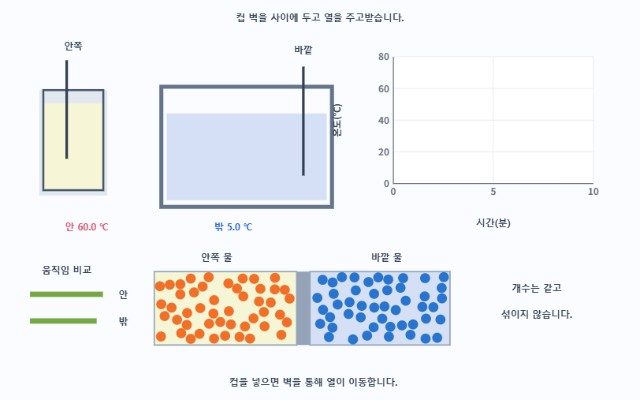
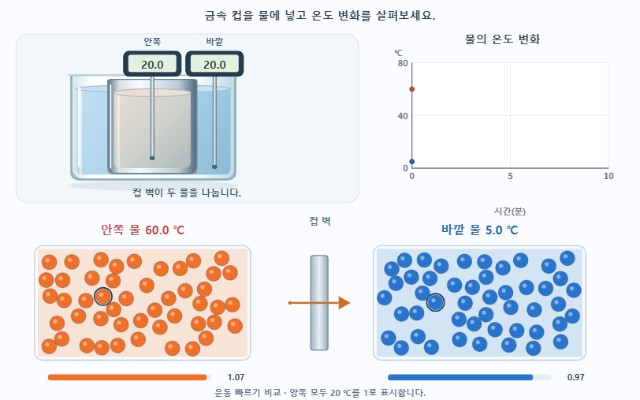
Make thermal equilibrium motion legible and redraw cup apparatus

diff --git a/labs/heat-equilibrium/index.html b/labs/heat-equilibrium/index.html
@@ -5,25 +5,116 @@ function temperatures(s,t){if(s.contact==='apart')return [s.inside,s.outside];co
 function sensors(s,t){const mean=s.contact==='apart'?null:(CI*s.inside+CO*s.outside)/(CI+CO);return [s.inside,s.outside].map((v,i)=>{if(mean==null)return v+(20-v)*Math.exp(-t/TAU);const a=v-mean;return mean+(20-mean)*Math.exp(-t/TAU)+a*(Math.exp(-LAMBDA*t)-Math.exp(-t/TAU))/(1-LAMBDA*TAU);});}
 const DENSITY=[[5,.99997],[20,.99821],[40,.99222],[60,.98320],[80,.97179]];
 function density(t){for(let i=1;i<DENSITY.length;i++)if(t<=DENSITY[i][0]){const [x,a]=DENSITY[i-1],[y,b]=DENSITY[i];return a+(b-a)*(t-x)/(y-x);}return DENSITY.at(-1)[1];}
-const width=t=>210*DENSITY[0][1]/density(t),rms=t=>25*Math.sqrt((t+273.15)/293.15);
+const MICRO_RATE=90,MICRO_DT=1/240;
+const width=t=>210*DENSITY[0][1]/density(t),rms=t=>MICRO_RATE*Math.sqrt((t+273.15)/293.15);
 const sim={t:0,acc:0,owner:null,mode:null,path:[]};let book,msg,lastFrame=0;const explored=new Set();
 const rows=i=>book.rows.filter(r=>r._mission===i);
 const particles=[[],[]];
-function initParticles(){for(let side=0;side<2;side++){particles[side]=Thermal.disks(48,210,110,8,101+side,25);}}
-function moveParticles(dt,ts){for(let side=0;side<2;side++){const ps=particles[side],w=width(ts[side]),target=rms(ts[side]),mean=Math.sqrt(ps.reduce((q,p)=>q+p.vx*p.vx+p.vy*p.vy,0)/ps.length),factor=target/mean;
+let microAcc=0,microTicks=0;
+function initParticles(){microAcc=0;microTicks=0;for(let side=0;side<2;side++){particles[side]=Thermal.disks(48,210,110,8,101+side,MICRO_RATE);for(const p of particles[side])p.trail=[];}}
+function moveParticles(dt,ts){microAcc+=Math.max(0,dt);while(microAcc>=MICRO_DT-1e-10){microAcc-=MICRO_DT;stepParticles(MICRO_DT,ts);microTicks++;if(microTicks%4===0)for(const ps of particles)for(const p of ps){p.trail.push([p.x,p.y]);if(p.trail.length>10)p.trail.shift();}}}
+function stepParticles(dt,ts){for(let side=0;side<2;side++){const ps=particles[side],w=width(ts[side]),target=rms(ts[side]),mean=Math.sqrt(ps.reduce((q,p)=>q+p.vx*p.vx+p.vy*p.vy,0)/ps.length),factor=target/mean;
  for(const p of ps){p.vx*=factor;p.vy*=factor;p.x+=p.vx*dt;p.y+=p.vy*dt;if(p.x<8){p.x=8;p.vx=Math.abs(p.vx);}if(p.x>w-8){p.x=w-8;p.vx=-Math.abs(p.vx);}if(p.y<8){p.y=8;p.vy=Math.abs(p.vy);}if(p.y>102){p.y=102;p.vy=-Math.abs(p.vy);}}
  for(let i=0;i<ps.length;i++)for(let j=i+1;j<ps.length;j++){const a=ps[i],b=ps[j],dx=b.x-a.x,dy=b.y-a.y,dist=Math.hypot(dx,dy);if(dist>0&&dist<15){const nx=dx/dist,ny=dy/dist,over=(15-dist)/2,dv=(b.vx-a.vx)*nx+(b.vy-a.vy)*ny;a.x-=over*nx;a.y-=over*ny;b.x+=over*nx;b.y+=over*ny;if(dv<0){a.vx+=dv*nx;a.vy+=dv*ny;b.vx-=dv*nx;b.vy-=dv*ny;}}}
  // Collision correction must not push a particle through the chamber wall.
  for(const p of ps){p.x=Math.max(8,Math.min(w-8,p.x));p.y=Math.max(8,Math.min(102,p.y));}
  }}
-function rewind(l){Object.assign(sim,{t:0,acc:0,owner:null,mode:null,path:[{time:0,inside:l.state.inside,outside:l.state.outside}]});}
+function rewind(l){Object.assign(sim,{t:0,acc:0,owner:null,mode:null,path:[{time:0,inside:l.state.inside,outside:l.state.outside}]});initParticles();moveParticles(MICRO_DT,[l.state.inside,l.state.outside]);}
 function configure(l,s){Object.assign(l.state,s);l.rewind();}
 function changed(v,l){if(l.mode==='learn'&&l.mi===0)explored.add(l.state.inside+':'+l.state.outside);l.rewind();}
 function advance(dt,l){sim.acc+=dt*RATE;const nextMinute=(Math.floor((sim.t+1e-6)/60)+1)*60;while(sim.acc>=DT&&sim.t<600-1e-8){sim.acc-=DT;sim.t=Math.min(600,sim.t+DT);if(Math.abs(sim.t-Math.round(sim.t/60)*60)<1e-7){sim.t=Math.round(sim.t/60)*60;const [inside,outside]=temperatures(l.state,sim.t);sim.path.push({time:sim.t/60,inside,outside});if(l.mode==='learn'&&sim.t>=nextMinute){sim.acc=0;l.setRunning(false);l.update();break;}}if(sim.t>=600){l.setRunning(false);l.update();}}}
-Lab.init({id:'heat-equilibrium',version:1,title:'열평형 입자 실험실',subject:'phys',unit:'열의 이동',grade:'중1',updated:'2026-09-27',board:{w:960,h:600},state:{inside:60,outside:5,contact:'apart'},animate:true,
- sceneNote:'입자 창은 크게 확대하고 느리게 보여 주는 설명 모형입니다. 물의 분자 구조 전체를 재현하지는 않습니다. 온도 변화 재생을 멈춰도 입자의 설명 움직임은 계속됩니다.',
+function drawEquilibrium(c,l){
+ const ts=temperatures(l.state,sim.t),ss=sensors(l.state,sim.t),d=l.draw,together=l.state.contact==='together',large=l.modelVisible&&l.state.focus==='particles';
+ const now=performance.now(),dt=Math.min(.05,Math.max(0,(now-lastFrame)/1000));lastFrame=now;
+ if(!matchMedia('(prefers-reduced-motion: reduce)').matches)moveParticles(dt,ts);
+ const text=(x,y,t,col='#334155',size=15,align='center')=>d.text(c,x,y,t,{size:l.fs(size),color:col,align});
+ const rr=(x,y,w,h,r,fill,stroke)=>{c.beginPath();c.roundRect(x,y,w,h,r);if(fill){c.fillStyle=fill;c.fill();}if(stroke){c.strokeStyle=stroke;c.lineWidth=1.5;c.stroke();}};
+ const ellipse=(x,y,rx,ry,fill,stroke)=>{c.beginPath();c.ellipse(x,y,rx,ry,0,0,Math.PI*2);if(fill){c.fillStyle=fill;c.fill();}if(stroke){c.strokeStyle=stroke;c.stroke();}};
+ const water=(x,y,w,h,T,metal=false)=>{
+  c.save();c.beginPath();c.roundRect(x,y,w,h,[0,0,10,10]);c.clip();
+  const g=c.createLinearGradient(x,y,x+w,y+h);g.addColorStop(0,'#e7f6fa');g.addColorStop(.55,'#c4e5ef');g.addColorStop(1,'#9fcad9');c.fillStyle=g;c.fillRect(x,y,w,h);
+  if(l.modelVisible){c.fillStyle=Thermal.tint(T);c.fillRect(x,y,w,h);}
+  c.fillStyle='rgba(255,255,255,.4)';c.fillRect(x+5,y,4,h);c.restore();
+  ellipse(x+w/2,y,w/2,6,'#eaf8fc','#a6c8d5');
+  if(l.modelVisible){ellipse(x+w/2,y,w/2,6,Thermal.tint(T));}
+ };
+ const probe=(x,top,bottom,value,label)=>{
+  const stem=c.createLinearGradient(x-3,0,x+3,0);stem.addColorStop(0,'#52687b');stem.addColorStop(.5,'#eef4f8');stem.addColorStop(1,'#52687b');
+  rr(x-3,top+25,6,bottom-top-25,3,stem);ellipse(x,bottom,4,3,'#4b6072');
+  rr(x-43,top,86,37,8,'#263c51','#142d41');rr(x-36,top+5,72,26,4,'#e5f1de');
+  text(x,top+26,value.toFixed(1),'#263c35',17);text(x,top-10,label,'#475569',13);
+ };
+ function apparatus(){
+  rr(24,51,514,253,18,'#f2f7fa','#e0e8ed');
+  // A section through the metal cup reveals the water while its wall remains solid.
+  const bx=together?114:271,by=119,bw=232,bh=143,cx=together?171:81,cw=115,cy=together?127:135,ch=125;
+  ellipse(bx+bw/2,278,bw*.55,8,'rgba(36,63,80,.08)');
+  const glass=c.createLinearGradient(bx,0,bx+bw,0);glass.addColorStop(0,'#dbe9ed');glass.addColorStop(.1,'#fff');glass.addColorStop(.8,'#f3f9fb');glass.addColorStop(1,'#c5dce5');
+  rr(bx-7,by-6,bw+14,bh+13,[3,3,18,18],glass,'#96b4c2');
+  // The outer water level rises as the metal cup displaces it. Both samples
+  // occupy approximately equal section areas; the cup itself keeps its size.
+  const level=together?14:87;water(bx,by+level,bw,bh-level,ts[1]);
+  // The cup is shown as an open section, never as transparent metal.
+  const metal=c.createLinearGradient(cx-8,0,cx+cw+8,0);metal.addColorStop(0,'#687d8d');metal.addColorStop(.12,'#d7e0e6');metal.addColorStop(.35,'#f8fbfd');metal.addColorStop(.8,'#bccbd5');metal.addColorStop(1,'#546c80');
+  rr(cx-9,cy-8,cw+18,ch+16,[4,4,12,12],metal,'#647b8d');
+  water(cx,cy+12,cw,ch-12,ts[0],true);
+  c.strokeStyle='#6c8393';c.lineWidth=2;c.beginPath();c.moveTo(cx-9,cy-7);c.lineTo(cx-9,cy+ch);c.quadraticCurveTo(cx-9,cy+ch+8,cx,cy+ch+8);c.lineTo(cx+cw,cy+ch+8);c.quadraticCurveTo(cx+cw+9,cy+ch+8,cx+cw+9,cy+ch);c.lineTo(cx+cw+9,cy-7);c.stroke();
+  c.strokeStyle='#f8fcff';c.lineWidth=2;c.beginPath();c.moveTo(cx-5,cy);c.lineTo(cx-5,cy+ch);c.stroke();
+  // An exterior lip, curved base and highlights distinguish the glass from the cup.
+  c.strokeStyle='#8eacba';c.lineWidth=3;c.beginPath();c.moveTo(bx-7,by-6);c.lineTo(bx-7,by+bh-4);c.quadraticCurveTo(bx-7,by+bh+7,bx+8,by+bh+7);c.lineTo(bx+bw-8,by+bh+7);c.quadraticCurveTo(bx+bw+7,by+bh+7,bx+bw+7,by+bh-4);c.lineTo(bx+bw+7,by-6);c.lineTo(bx+bw+17,by-11);c.stroke();
+  c.strokeStyle='#c4d8e0';c.lineWidth=2;c.beginPath();c.moveTo(bx-12,by-7);c.lineTo(bx+bw+6,by-7);c.stroke();
+  c.strokeStyle='rgba(255,255,255,.8)';c.lineWidth=4;c.beginPath();c.moveTo(bx+5,by+12);c.lineTo(bx+5,by+bh-12);c.stroke();
+  probe(cx+cw/2,77,cy+ch-15,ss[0],'안쪽');probe(bx+bw-24,77,by+bh-12,ss[1],'바깥');
+  text(280,294,together?'컵 벽이 두 물을 나눕니다.':'컵을 넣으면 열을 주고받습니다.','#475569',14);
+ }
+ function graph(){
+  text(754,65,'물의 온도 변화','#334155',17);
+  d.graph(c,{x:618,y:94,w:295,h:158,xMax:10,yMax:80,xLabel:'',yLabel:'',fontSize:l.fs(13),line:sim.path.map(p=>[p.time,p.inside]),lineColor:'#b84b42',xTicks:2,yTicks:2});
+  c.strokeStyle='#2563a6';c.lineWidth=3;c.beginPath();sim.path.forEach((p,i)=>{const x=618+p.time*29.5,y=252-p.outside/80*158;i?c.lineTo(x,y):c.moveTo(x,y);});c.stroke();
+  for(let side=0;side<2;side++){c.fillStyle=side?'#2563a6':'#b84b42';c.beginPath();c.arc(618+sim.t/60*29.5,252-ts[side]/80*158,4,0,Math.PI*2);c.fill();}
+  text(598,84,'℃','#64748b',12);text(765,321,'시간(분)','#64748b',13);
+ }
+ function chamber(side,x,y,scale){
+  const w=width(ts[side])*scale,h=110*scale;
+  rr(x-5,y-5,w+10,h+10,12,'#f9fcfe','#bbcedb');
+  c.save();c.beginPath();c.rect(x,y,w,h);c.clip();c.fillStyle=Thermal.tint(ts[side]);c.fillRect(x,y,w,h);
+  c.translate(x,y);c.scale(scale,scale);
+  if(l.state.trails){c.lineCap='round';c.lineJoin='round';for(const p of particles[side]){for(let i=1;i<p.trail.length;i++){c.strokeStyle=Thermal.color(ts[side]);c.globalAlpha=.08+.36*i/p.trail.length;c.lineWidth=3;c.beginPath();c.moveTo(...p.trail[i-1]);c.lineTo(...p.trail[i]);c.stroke();}}c.globalAlpha=1;}
+  for(const [i,p]of particles[side].entries()){c.fillStyle=Thermal.color(ts[side]);c.beginPath();c.arc(p.x,p.y,7.5,0,Math.PI*2);c.fill();c.strokeStyle='rgba(28,63,85,.35)';c.lineWidth=.8;c.stroke();c.fillStyle='rgba(255,255,255,.45)';c.beginPath();c.arc(p.x-2,p.y-2,2.1,0,Math.PI*2);c.fill();if(i===0){c.strokeStyle='#193c58';c.lineWidth=1.3;c.beginPath();c.arc(p.x,p.y,9,0,Math.PI*2);c.stroke();}}
+  c.restore();
+ }
+ function speedBars(y){
+  const base=large?132:72,len=large?540:245,ref=rms(80),x2=large?base:582;
+  if(large){text(480,y-28,'입자 집단의 운동 빠르기','#334155',17);for(let side=0;side<2;side++){const yy=y+side*48;text(86,yy+7,side?'밖':'안');rr(base,yy-8,len,14,7,'#e5edf3');rr(base,yy-8,len*rms(ts[side])/ref,14,7,Thermal.color(ts[side]));text(785,yy+7,(rms(ts[side])/rms(20)).toFixed(3)+'배','#334155',15);}}
+  else for(let side=0;side<2;side++){const x=side?x2:base;rr(x,y,len,9,4,'#e5edf3');rr(x,y,len*rms(ts[side])/ref,9,4,Thermal.color(ts[side]));text(x+len+37,y+9,(rms(ts[side])/rms(20)).toFixed(2),'#334155',13);}
+ }
+ c.fillStyle='#fbfcff';c.fillRect(0,0,960,600);
+ text(480,30,large?'같은 배율로 두 물의 입자 운동을 비교합니다.':'금속 컵을 물에 넣고 온도 변화를 살펴보세요.','#243f54',17);
+ if(!large){apparatus();graph();}
+ if(l.modelVisible){
+  const y=large?112:373,scale=large?1.94:1.47,xs=large?[29,523]:[57,565];
+  for(let side=0;side<2;side++){text(xs[side]+width(ts[side])*scale/2,y-22,(side?'바깥':'안쪽')+' 물 '+ts[side].toFixed(1)+' ℃',side?'#2563a6':'#b84b42',18);chamber(side,xs[side],y,scale);}
+  const wallY=y+10,wallH=110*scale-20;
+  const metal=c.createLinearGradient(462,0,496,0);metal.addColorStop(0,'#8ea2b3');metal.addColorStop(.5,'#e9f0f5');metal.addColorStop(1,'#7f96a8');rr(466,wallY,26,wallH,4,metal,'#718b9c');
+  text(480,large?365:337,'컵 벽','#526b7d',14);
+  if(together&&Math.abs(ts[0]-ts[1])>=.3){const right=ts[0]>ts[1];d.arrow(c,right?435:526,y+wallH/2+10,right?91:-91,0,{color:'#cb7027',width:3});}
+  speedBars(large?427:561);
+  if(large)text(480,530,'20 ℃의 운동 빠르기를 1배로 놓았습니다.','#64748b',14);
+  else text(480,594,'운동 빠르기 비교 · 양쪽 모두 20 ℃를 1로 표시합니다.','#64748b',13);
+  if(large)text(480,577,together?(Math.abs(ts[0]-ts[1])<.3?'평형에 가까워져도 입자는 계속 움직입니다.':'열은 뜨거운 물에서 찬물로 순이동합니다.'):'컵을 넣기 전에는 두 온도가 유지됩니다.','#334155',15);
+ }else{
+  text(260,362,'안쪽 물 '+ts[0].toFixed(1)+' ℃','#b84b42',23);text(725,362,'바깥 물 '+ts[1].toFixed(1)+' ℃','#2563a6',23);
+  const diff=ts[0]-ts[1];if(together&&Math.abs(diff)>=.3)d.arrow(c,diff>0?285:675,425,diff>0?390:-390,0,{color:'#cb7027',width:4});
+  text(480,482,together?'물이 섞이지 않아도 컵 벽을 통해 열을 주고받습니다.':'따로 둔 두 물의 온도는 유지됩니다.','#334155',17);
+  text(480,543,'장치는 내부를 볼 수 있도록 단면으로 그렸습니다.','#64748b',14);
+ }
+}
+
+Lab.init({id:'heat-equilibrium',version:1,title:'열평형 입자 실험실',subject:'phys',unit:'열의 이동',grade:'중1',updated:'2026-09-27',board:{w:960,h:600},state:{inside:60,outside:5,contact:'apart',focus:'all',trails:true},animate:true,
+ viewLabels:{scene:'장치 보기',model:'입자·온도 보기'},
+ sceneNote:'입자 움직임은 양쪽에 같은 길이·시간 배율을 적용합니다. 꼬리는 최근 이동 자취입니다. 온도 변화 재생을 멈춰도 입자는 계속 움직입니다. 물 분자 사이의 모든 힘을 재현한 모형은 아닙니다.',
  assumptions:['두 물은 각각 100 g이고 알루미늄 컵은 30 g입니다. 컵 벽을 통해 열이 이동하며 물은 섞이지 않습니다.','바깥으로 새는 열은 무시합니다. 실제 실험의 최종 온도와 걸리는 시간은 장치에 따라 다릅니다.','재생 1초는 실험 30초입니다. 학습 모드는 1분마다 멈추어 측정할 시간을 줍니다.','온도 센서는 처음 20 ℃에서 시작하며 물의 온도를 바로 따라가지 못합니다. 꽂은 뒤 잠시 기다려야 합니다.','학습 측정값은 최대 0.2 ℃ 흔들리고 반올림합니다. 입자의 크기와 개수는 같습니다. 입자 색은 그 부분의 평균 온도를 나타내는 설명용 표시입니다.'],
- teacher:`<h4>교과서</h4><p>비상교육 p.84–88. 약 60 ℃ 물과 약 5 ℃ 물, 10분 관찰, 온도–입자 움직임, 접촉식 온도계를 기다리는 까닭을 연결합니다. 두 정리본의 내용은 같은 단원이므로 하나로 만들었습니다.</p><h4>내부 계산</h4><p>안쪽 물 100 g과 알루미늄 컵 30 g의 열용량은 445 J/K, 바깥 물은 418 J/K, 열전달 계수는 2 W/K로 설정했습니다. 에너지 보존을 만족하는 두 덩어리 해석해를 0.1초 간격으로 표본화합니다. 기본 평형 온도는 약 33.36 ℃이며 교과서의 실측값이 아닙니다. 센서는 시간 상수 3초인 1차 응답의 해석해를 씁니다. 0.3 ℃ 미만은 '열평형에 가까움'의 표시 기준이며 완전히 같은 온도로 값을 강제 변경하지 않습니다.</p><h4>입자 모형의 한계</h4><p>각 48개 동일 원판, 같은 질량 탄성 충돌을 이용한 설명 그림이며 실제 액체의 분자 간 힘을 전부 계산하지 않습니다. 거시 계산 온도에 맞춰 평균 제곱 속력을 조절합니다. 운동 크기는 √(T+273.15)에 비례합니다. 작은 차이를 보이려고 임의로 빠르기 비를 과장하지 않고 비교 막대를 둡니다. 물 밀도 표(5/20/40/60/80 ℃의 0.99997/0.99821/0.99222/0.98320/0.97179 g/cm³)를 선형 보간하여 창 너비를 조절합니다. 입자는 생성·소멸하거나 칸막이를 넘지 않습니다. 간격·시간·입자 수는 실제 물 전체의 재현이 아닙니다.</p><h4>범위</h4><p>물의 양과 재료 바꾸기, 열량 식, 외부 열손실은 이 실험실에서 조작하지 않습니다. 후속 비열 단원에서 다룹니다. 열 화살표 방향은 안팎 위치가 아니라 온도 차이로 정합니다.</p>`,
+ teacher:`<h4>교과서</h4><p>비상교육 p.84–88. 약 60 ℃ 물과 약 5 ℃ 물, 10분 관찰, 온도–입자 움직임, 접촉식 온도계를 기다리는 까닭을 연결합니다. 두 정리본의 내용은 같은 단원이므로 하나로 만들었습니다.</p><h4>내부 계산</h4><p>안쪽 물 100 g과 알루미늄 컵 30 g의 열용량은 445 J/K, 바깥 물은 418 J/K, 열전달 계수는 2 W/K로 설정했습니다. 에너지 보존을 만족하는 두 덩어리 해석해를 0.1초 간격으로 표본화합니다. 기본 평형 온도는 약 33.36 ℃이며 교과서의 실측값이 아닙니다. 센서는 시간 상수 3초인 1차 응답의 해석해를 씁니다. 0.3 ℃ 미만은 '열평형에 가까움'의 표시 기준이며 완전히 같은 온도로 값을 강제 변경하지 않습니다.</p><h4>입자 모형의 한계</h4><p>각 48개 동일 원판, 같은 질량 탄성 충돌을 이용한 설명 그림이며 실제 액체의 분자 간 힘을 전부 계산하지 않습니다. 거시 계산 온도에 맞춰 평균 제곱 속력을 조절합니다. 운동 크기는 √(T+273.15)에 비례합니다. 양쪽 기준 빠르기를 모두 90 모형 길이/표시초로 높이고 1/240초 간격으로 충돌을 계산합니다. 약 0.15초의 실제 위치 자취와 확대 보기를 제공합니다. 비교 막대는 평균 제곱 속력의 제곱근이며 20 ℃를 1배로 정합니다. 60/5 ℃의 빠르기 비 1.094411을 과장하지 않습니다. 움직임 줄이기 설정에서는 입자 애니메이션을 멈추지만 수치와 막대를 볼 수 있습니다. 장치는 안쪽 금속 컵을 잘라 본 단면이며 물의 실제 색은 온도에 따라 붉어지지 않습니다. 물 밀도 표(5/20/40/60/80 ℃의 0.99997/0.99821/0.99222/0.98320/0.97179 g/cm³)를 선형 보간하여 창 너비를 조절합니다. 입자는 생성·소멸하거나 칸막이를 넘지 않습니다. 간격·시간·입자 수는 실제 물 전체의 재현이 아닙니다.</p><h4>범위</h4><p>물의 양과 재료 바꾸기, 열량 식, 외부 열손실은 이 실험실에서 조작하지 않습니다. 후속 비열 단원에서 다룹니다. 열 화살표 방향은 안팎 위치가 아니라 온도 차이로 정합니다.</p>`,
  missions:[
  {kind:'둘러보기',title:'온도와 입자 움직임 비교하기',text:'안쪽과 바깥쪽 처음 온도를 바꾸며 입자와 움직임 비교 막대를 살펴보세요.',check:()=>explored.size>=3},
  {kind:'해 보기',title:'60 ℃와 5 ℃를 10분 관찰하기',text:'상황을 맞추고 재생하세요. 1분마다 멈추면 기록하고 다시 재생하세요. 0분·1분·10분 기록이 필요합니다.',enter:l=>configure(l,{inside:60,outside:5,contact:'together'}),check:()=>[0,60,600].every(t=>rows(1).some(r=>r.seconds===t&&r.initialInside===60&&r.initialOutside===5&&r.contact==='together')),ok:'두 물의 온도는 약 33.4 ℃로 가까워집니다. 입자는 서로 섞이지 않아도 컵 벽을 통해 열을 주고받습니다.'},
@@ -38,18 +129,11 @@ Lab.init({id:'heat-equilibrium',version:1,title:'열평형 입자 실험실',sub
  {kind:'적용',question:'안쪽 물이 5 ℃, 바깥 물이 60 ℃라면 열의 순이동 방향은?',options:['안쪽에서 바깥쪽입니다.','바깥쪽에서 안쪽입니다.','온도와 관계없이 양쪽이 같습니다.'],answer:1,feedback:['안팎 위치가 아니라 온도를 비교해야 합니다.','더 뜨거운 바깥 물에서 찬 안쪽 물로 이동합니다.','온도 차이가 있으면 순이동이 생깁니다.']},
  {kind:'새 상황',question:'온도계를 뜨거운 물에 넣자마자 낮은 온도가 읽힙니다. 어떻게 할까요?',options:['잠시 기다려 물과 온도가 비슷해진 뒤 읽습니다.','물에서 냉기가 나온 것입니다.','바로 읽은 값이 언제나 정확합니다.'],answer:0,feedback:['접촉식 온도계도 물과 열평형에 가까워지는 시간이 필요합니다.','차가운 기운이 나오는 현상이 아닙니다.','온도계는 물의 온도를 바로 따라가지 못합니다.']}
  ],
- setup(l){const u=l.ui;Thermal.note(l,'같은 온도가 되면 두 물의 입자 색도 같아집니다. 그래프의 두 선 색은 안쪽·바깥쪽을 구별하는 색입니다.');u.group('처음 조건');u.slider({key:'inside',label:'안쪽 물 처음 온도',min:5,max:80,step:5,unit:'℃',onChange:changed});u.slider({key:'outside',label:'바깥 물 처음 온도',min:5,max:80,step:5,unit:'℃',onChange:changed});u.choice({key:'contact',label:'컵의 위치',options:[['apart','따로 두기'],['together','컵 넣기']],onChange:changed});u.note('처음 조건을 바꾸면 관찰을 처음부터 시작합니다. 두 물은 컵 벽 때문에 섞이지 않습니다.');u.group('온도 관찰');u.readout({label:'실험 시간',get:()=>Math.floor(sim.t/60)+'분 '+Math.round(sim.t%60)+'초'});u.readout({label:'안쪽 물(모형값)',get:s=>temperatures(s,sim.t)[0].toFixed(1)+' ℃'});u.readout({label:'바깥 물(모형값)',get:s=>temperatures(s,sim.t)[1].toFixed(1)+' ℃'});u.readout({label:'상태',get:s=>s.contact==='apart'?'서로 떨어져 있습니다.':Math.abs(temperatures(s,sim.t)[0]-temperatures(s,sim.t)[1])<.3?'열평형에 가까워졌습니다.':'온도 차이가 줄어듭니다.'});
+ setup(l){const u=l.ui;u.group('입자 관찰');u.choice({key:'focus',label:'관찰 창',options:[['all','장치와 함께'],['particles','입자 크게']],onChange:()=>{if(!l.modelVisible){document.querySelector('[data-view="model"]').click();}l.update();}});u.toggle({key:'trails',label:'이동 자취 보기'});u.readout({label:'안쪽 / 바깥 운동 빠르기',get:s=>{const t=temperatures(s,sim.t);return (rms(t[0])/rms(t[1])).toFixed(3)+'배';}});u.note('같은 물도 입자마다 순간 빠르기가 다릅니다. 막대는 집단의 대표 빠르기를 비교합니다.');Thermal.note(l,'같은 온도가 되면 두 물의 입자 색도 같아집니다. 그래프의 두 선 색은 안쪽·바깥쪽을 구별하는 색입니다.');u.group('처음 조건');u.slider({key:'inside',label:'안쪽 물 처음 온도',min:5,max:80,step:5,unit:'℃',onChange:changed});u.slider({key:'outside',label:'바깥 물 처음 온도',min:5,max:80,step:5,unit:'℃',onChange:changed});u.choice({key:'contact',label:'컵의 위치',options:[['apart','따로 두기'],['together','컵 넣기']],onChange:changed});u.note('처음 조건을 바꾸면 관찰을 처음부터 시작합니다. 두 물은 컵 벽 때문에 섞이지 않습니다.');u.group('온도 관찰');u.readout({label:'실험 시간',get:()=>Math.floor(sim.t/60)+'분 '+Math.round(sim.t%60)+'초'});u.readout({label:'안쪽 물(모형값)',get:s=>temperatures(s,sim.t)[0].toFixed(1)+' ℃'});u.readout({label:'바깥 물(모형값)',get:s=>temperatures(s,sim.t)[1].toFixed(1)+' ℃'});u.readout({label:'상태',get:s=>s.contact==='apart'?'서로 떨어져 있습니다.':Math.abs(temperatures(s,sim.t)[0]-temperatures(s,sim.t)[1])<.3?'열평형에 가까워졌습니다.':'온도 차이가 줄어듭니다.'});
  u.learnOnly(u.group('측정·기록'));u.readout({label:'안쪽 센서 측정',get:(s,l)=>l.measure('inside',sensors(s,sim.t)[0],{amplitude:.2}).toFixed(1)+' ℃'});u.readout({label:'바깥 센서 측정',get:(s,l)=>l.measure('outside',sensors(s,sim.t)[1],{amplitude:.2}).toFixed(1)+' ℃'});
  book=u.records({id:'heat',version:1,columns:[{key:'initialInside',label:'안쪽 처음(℃)',numeric:true,digits:0},{key:'initialOutside',label:'바깥 처음(℃)',numeric:true,digits:0},{key:'contact',label:'접촉',format:v=>v==='apart'?'따로 둠':'컵 넣음'},{key:'minutes',label:'시간(분)',numeric:true},{key:'measuredInside',label:'안쪽 센서(℃)',numeric:true,digits:1},{key:'measuredOutside',label:'바깥 센서(℃)',numeric:true,digits:1}],conditions:['initialInside','initialOutside','contact','seconds'],measure:'measuredInside',x:'minutes',y:'measuredInside',validate:r=>{const s={inside:r.initialInside,outside:r.initialOutside,contact:r.contact},rs=sensors(s,r.seconds);return r.seconds>=0&&r.seconds<=600&&r.minutes===r.seconds/60&&Math.abs(r.measuredInside-rs[0])<=.250001&&Math.abs(r.measuredOutside-rs[1])<=.250001;}});
  msg=u.note('1분마다 멈추면 센서를 읽고 기록한 뒤 다시 재생하세요. 입자 창과 그래프는 모형값이며 센서값과 다를 수 있습니다.');u.button({label:'두 온도 측정·기록',onClick:l=>{if(l.mi===2&&l.prediction==null){msg.textContent='먼저 예상을 고르세요.';return;}if(sim.t>0&&(sim.owner!==l.mi||sim.mode!=='learn')){msg.textContent='이 미션에서 처음부터 다시 관찰하세요.';return;}const s=l.state,ts=temperatures(s,sim.t),rs=sensors(s,sim.t);book.add({initialInside:s.inside,initialOutside:s.outside,contact:s.contact,seconds:sim.t,minutes:sim.t/60,measuredInside:+l.measure('inside',rs[0],{amplitude:.2,fresh:true}).toFixed(1),measuredOutside:+l.measure('outside',rs[1],{amplitude:.2,fresh:true}).toFixed(1),trueInside:ts[0],trueOutside:ts[1],visible:l.modelVisible,pred:l.mi===2&&l.prediction!=null});}});u.graphData({columns:[{key:'time',label:'시간(분)',numeric:true},{key:'inside',label:'안쪽 물 모형(℃)',numeric:true},{key:'outside',label:'바깥 물 모형(℃)',numeric:true}],getRows:()=>sim.path});initParticles();rewind(l);
  },step:advance,onPlay(l){if(sim.t>=600)rewind(l);if(sim.t===0){sim.owner=l.mi;sim.mode=l.mode;}},rewind,reset:rewind,onModeChange(){sim.owner=null;},onMissionSelect(){sim.owner=null;explored.clear();},onMissionsReset(){explored.clear();},
- draw(c,l){const ts=temperatures(l.state,sim.t),d=l.draw,z=l.fs(14),text=(x,y,t,col='#334155',align='center')=>d.text(c,x,y,t,{size:z,color:col,align}),color=t=>`hsl(${220-(t-5)/75*220} 65% 90%)`,together=l.state.contact==='together';const now=performance.now(),dt=Math.min(.03,(now-lastFrame)/1000||0);lastFrame=now;moveParticles(dt,ts);c.fillStyle='#fbfcff';c.fillRect(0,0,960,600);text(480,32,'컵 벽을 사이에 두고 열을 주고받습니다.');
- const ox=together?140:250,ix=together?215:65;c.fillStyle=color(ts[1]);c.fillRect(ox,170,240,130);c.strokeStyle='#64748b';c.lineWidth=6;c.strokeRect(ox-8,130,256,180);c.fillStyle='#e2e8f0';c.fillRect(ix-6,135,102,158);c.fillStyle=color(ts[0]);c.fillRect(ix,155,90,130);c.strokeStyle='#475569';c.lineWidth=3;c.strokeRect(ix,135,90,150);c.strokeStyle='#334155';c.lineWidth=4;c.beginPath();c.moveTo(ix+35,90);c.lineTo(ix+35,238);c.moveTo(ox+205,100);c.lineTo(ox+205,263);c.stroke();text(ix+45,75,'안쪽');text(ox+205,80,'바깥');text(130,345,'안 '+ts[0].toFixed(1)+' ℃','#dc4c64');text(350,345,'밖 '+ts[1].toFixed(1)+' ℃','#2563eb');
- d.graph(c,{x:590,y:85,w:300,h:190,xMax:10,yMax:80,xLabel:'',yLabel:'온도(℃)',yLabelOffset:85,fontSize:z,line:sim.path.map(p=>[p.time,p.inside]),lineColor:'#dc4c64',xTicks:2,yTicks:4});c.strokeStyle='#2563eb';c.lineWidth=3;c.beginPath();sim.path.forEach((p,i)=>{const x=590+p.time*30,y=275-p.outside/80*190;i?c.lineTo(x,y):c.moveTo(x,y);});c.stroke();text(740,339,'시간(분)');
- if(l.modelVisible){const startY=407;for(let side=0;side<2;side++){const w=width(ts[side]),x=side===0?445-w:465;c.fillStyle=color(ts[side]);c.fillRect(x,startY,w,110);c.strokeStyle='#94a3b8';c.lineWidth=2;c.strokeRect(x,startY,w,110);c.fillStyle=Thermal.color(ts[side]);for(const p of particles[side]){c.beginPath();c.arc(x+p.x,startY+p.y,7.5,0,Math.PI*2);c.fill();}}c.fillStyle='#94a3b8';c.fillRect(445,startY,20,110);text(325,391,'안쪽 물');text(580,391,'바깥 물');
- if(together){const diff=ts[0]-ts[1];if(Math.abs(diff)>=.3)d.arrow(c,diff>0?370:540,550,diff>0?170:-170,0,{color:'#dd743d',width:3});text(480,588,Math.abs(diff)<.3?'온도 차이가 작아져 열의 순이동도 작습니다.':'열은 더 뜨거운 쪽에서 찬 쪽으로 순이동합니다.');}else text(470,578,'컵을 넣으면 벽을 통해 열이 이동합니다.');
- c.fillStyle='#75a843';c.fillRect(45,437,100*rms(ts[0])/rms(5),8);c.fillRect(45,477,100*rms(ts[1])/rms(5),8);text(100,410,'움직임 비교');text(185,447,'안');text(185,487,'밖');text(805,437,'개수는 같고');text(805,477,'섞이지 않습니다.');
- }else text(480,455,'물은 섞이지 않고 컵 벽을 통해 열을 주고받습니다.');
- }
+ draw:drawEquilibrium
 });
 </script></body></html>

diff --git a/docs/heat-equilibrium-review.md b/docs/heat-equilibrium-review.md
@@ -1,12 +1,40 @@
 # 열평형 입자 실험실 검토 보고
 
+## 2026-09-27 교사 피드백 반영: 운동·장치 재설계
+
+이전 버전은 온도에 따른 속력 차이가 계산돼 있어도 기준 속력이 25 모형 길이/표시초로 느리고 창이 작아 읽기 어려웠다. 이번에는 양쪽 기준 속력을 모두 90으로 바꾸고, 1/240초 고정 간격 충돌·최근 약 0.15초 이동 자취·큰 입자 보기·공통 기준의 운동 빠르기 막대를 넣었다. 자취는 실제 모형 위치 기록이다. 줄어든 움직임 설정에서는 자동 애니메이션을 멈춘다.
+
+바깥 유리 비커와 금속 컵을 곡면 테두리·벽 두께·수면·잠긴 센서 끝이 있는 단면으로 다시 그렸다. 컵을 넣어도 컵 크기가 바뀌지 않으며 바깥 수면은 올라간다. 금속을 투명하게 만든 것이 아니라 잘라 본 단면임을 안내한다. 장치 보기의 물은 온도 때문에 붉어지지 않고 모형 층에서만 온도색을 덧씌운다. 센서에는 기존 응답 지연을 적용해 처음에는 20 ℃로 읽힌다.
+
+모형 모드에서는 두 처음 온도·컵 넣기와 입자 관찰을 조작한다. 학습 모드는 같은 엔진에 기존 7개 미션·기록·3개 문제를 유지한다. 온도 해석해·열용량·측정 규칙·기존 기록의 의미는 바꾸지 않았다. 근거는 비상교육 p.84–88이며 [온도와 열평형의 설명](https://openstax.org/books/university-physics-volume-2/pages/1-1-temperature-and-thermal-equilibrium)과도 대조했다.
+
+| 검증 | 손계산 또는 독립 기준 | 실행 결과 |
+|---|---|---|
+| 60 ℃ 입자 집단의 대표 속력 | 90√(333.15/293.15) | 95.943922 모형 길이/표시초 |
+| 5 ℃ 입자 집단의 대표 속력 | 90√(278.15/293.15) | 87.667191 모형 길이/표시초 |
+| 60/5 ℃ 빠르기 비 | √(333.15/278.15) | 1.094411배 |
+| 같은 2초 동안의 평균 누적 이동 | 두 집단의 순간 속력 합을 매 1/240초 누적 | 뜨거운 쪽 170.506, 찬 쪽 159.152 모형 길이 |
+| 안팎 온도를 뒤집고 같은 측정 | 빠른 쪽도 뒤집혀야 함 | 찬 안쪽 154.855, 뜨거운 바깥쪽 171.611 |
+| 10분 뒤 대표 속력 | 두 물의 온도 해석해에 연결 | 안 92.043311, 밖 92.011768 |
+| 30 Hz / 60 Hz에서 같은 2초 | 같은 고정 간격 계산 결과 | 전체 입자 위치·속도 차이 0 |
+
+누적 거리는 유한한 48개 입자의 표본 평균이어서 비가 RMS 비와 완전히 같지는 않다. 뜨거운 물의 모든 입자가 언제나 찬물의 모든 입자보다 빠른 것은 아니다. 속력 막대는 RMS이며 섭씨 60/5=12배로 과장하지 않는다. 거시 온도 재생을 멈춰도 입자 운동이 지속되고, 평형에서도 멈추지 않는다.
+
+과학·오개념·사용성 세 관점으로 자체 재검토했다. 장식용 자취, 온도별로 다른 재생 배율, 컵 크기 변경, 유리·금속 구별 부재, 작은 화면의 그래프 축 제목 겹침을 검사하고 고쳤다. 이 원판 모형도 실제 액체 분자 사이의 모든 힘을 계산하는 분자 동역학은 아니다. 확대·시간 배율과 이 한계를 안내한다.
+
+검사 도구: `tests/equilibrium-motion.cjs`(운동·주사율·접근성·관찰 창 전환·12개 큰 글자 배치), `tests/heat-equilibrium.cjs`(36수치 조건·7미션·3문제·48화면). 화면 크기는 1920×1080·1366×768·1024×768·390×844이며 두 모드 × 세 보기 × 처음/평형을 촬영한다.
+
+검증 JSON·스크린샷: `C:/Users/user/Documents/Codex/2026-09-27/click-science-c-users-user-codex/outputs/equilibrium-rebuild/`.
+
+아래는 기존 열평형 엔진의 수치와 미션 검증이다. 입자 표시 배율과 화면 검증은 위의 최신 결과를 따른다.
+
 비상교육 p.84–88. 두 판의 정리본을 함께 확인하고 하나의 실험실로 만들었다. 모형 모드는 두 처음 온도와 컵 접촉을 조작하며 입자·열 이동·시간–온도 그래프를 살펴본다. 학습 모드는 1분마다 멈추는 측정 활동, 기록장·평균·그래프·CSV, 7개 미션과 확인 문제 3개를 제공한다.
 
 ## 계산·가정·오개념 방지
 
 물은 안팎 각 100 g, 컵 30 g이며 열용량은 안 445 J/K, 밖 418 J/K로 설정했다. 열전달 계수 2 W/K, 외부 손실 없음. 에너지 보존 두 덩어리 해석해를 고정 0.1초 간격으로 계산한다. 실험 30초가 재생 1초이며 기본 조건의 평형 온도 33.36037 ℃는 모형 설정값이지 교과서 실측값이 아니다. 0.3 ℃ 미만은 ‘열평형에 가까워짐’ 기준으로만 쓰고 두 수치를 억지로 같게 만들지 않는다. 센서는 처음 20 ℃, 응답 시간 상수 3초의 해석해이며 학습 측정에는 ±0.2 ℃를 더한 뒤 소수 첫째 자리로 반올림한다.
 
-입자는 양쪽 각각 48개이며 크기·색·개수가 일정하다. 단단한 칸막이를 넘지 않고, 같은 질량 원판 탄성 충돌과 온도에 맞춘 평균 제곱 속력 조절로 움직임을 표현한다. 실제 물 분자 간 힘 전체를 재현하지 않는 설명 모형임을 화면에 밝혔다. 밀도표에 따른 부피 비율은 창 너비로 표현하며 입자를 없애거나 추가하지 않는다. 평균 움직임 비율은 절대온도 제곱근 비 그대로다. 찬물에서도 입자가 움직이며, 매크로 온도 변화 재생을 멈춰도 설명용 입자 움직임은 계속된다.
+입자는 양쪽 각각 48개이며 크기·개수가 일정하며 색은 평균 온도에 연결한다. 단단한 칸막이를 넘지 않고, 같은 질량 원판 탄성 충돌과 온도에 맞춘 평균 제곱 속력 조절로 움직임을 표현한다. 실제 물 분자 간 힘 전체를 재현하지 않는 설명 모형임을 화면에 밝혔다. 밀도표에 따른 부피 비율은 창 너비로 표현하며 입자를 없애거나 추가하지 않는다. 평균 움직임 비율은 절대온도 제곱근 비 그대로다. 찬물에서도 입자가 움직이며, 매크로 온도 변화 재생을 멈춰도 설명용 입자 움직임은 계속된다.
 
 열의 순이동 화살표는 거시 온도 차이에 따라 방향을 정한다. 안팎을 뒤집어도 높은 온도에서 낮은 온도로 향한다. 미시 충돌의 순간 요동 때문에 방향이 뒤집히는 현상은 넣지 않았다. 열과 입자 자체의 이동을 구별한다.
 

diff --git a/docs/heat-equilibrium-design.md b/docs/heat-equilibrium-design.md
@@ -1,10 +1,20 @@
 # 열평형 입자 실험실 설계 카드
 
+## 2026-09-27 추가 수정: 보이는 운동과 장치
+
+사용자 검토에서 입자 속력 차이가 읽히지 않고 컵·용기가 단순한 사각형처럼 보이는 문제가 드러났다. 핵심 관계는 ‘열을 주고받으면 뜨거운 물의 평균 운동은 줄고 찬물은 늘어 같은 정도에 가까워지되, 입자는 멈추지 않는다’이다. 온도 해석해와 미션은 유지한다.
+
+입자 기준 속력을 양쪽 모두 25 → 90 모형 길이/표시초로 올리고 1/240초 고정 간격으로 충돌을 계산한다. 과거 위치를 잇는 짧은 자취, 더 큰 확대창, 공통 0점의 빠르기 비교 막대와 현재 비를 제공한다. ‘입자 크게’ 관찰 창에서는 장치·그래프 대신 입자 운동을 화면 대부분에 보여 준다. 속력 비는 절대온도의 제곱근 관계를 유지하며 섭씨 온도 비로 과장하지 않는다. 움직임 줄이기 설정은 자동 입자 애니메이션을 멈춘다.
+
+장치는 투명 바깥 비커, 금속 안쪽 컵의 잘린 면, 분리된 두 수면, 잠긴 센서 끝과 디지털 센서 표시를 직접 캔버스로 그린다. 실제 모습의 물은 온도 때문에 붉어지지 않으며 온도색은 모형 층에만 적용한다. 컵 벽이 두 물을 분리하는 단면임을 표시한다. 센서는 기존 응답 지연을 그대로 반영한다.
+
+창의 장치의 한계: 자취는 입자의 최근 실제 모형 위치이고 열이 흐르는 선이 아니다. 막대는 무작위 입자 집단의 대표 속력(RMS)으로 계산하며 입자 하나의 순간 속력과 구별한다. 설명용 시간·길이 배율을 키운 것이며 실제 물의 분자 운동 속도나 유체 분자 간 힘 전체를 재현하지 않는다.
+
 근거: 두 판의 열의 이동 정리본 p.84–88을 함께 대조한다. 모형은 섞이지 않는 두 물의 입자 창, 알루미늄 컵 벽을 사이에 둔 열 이동, 시간–온도 곡선이다. 초기 안쪽/바깥 온도(각 5~80 ℃)와 접촉 여부가 핵심 조작이다. 안팎 온도를 뒤집을 수 있어 열의 방향이 위치에 고정되지 않는다.
 
 각 물 100 g, 안쪽 알루미늄 컵 30 g. 내부 열용량은 445/418 J/K, 접촉 열전달 계수 2 W/K다. 외부로 새는 열은 생략한 단열 모형이다. 교과서의 실제 결과 수치가 아니라 에너지 보존과 10분 관찰을 설명하는 설정값임을 밝힌다. 두 덩어리 사이 해석해를 0.1초 고정 간격으로 계산하여 에너지 보존·단조 수렴을 보장한다. 열평형 접근의 화면 기준은 차이 0.3 ℃ 미만이며 실제로 완전히 같은 온도인 것은 아님을 구분한다. 센서의 응답은 시간 상수 3초인 지연 모형이고 처음에는 20 ℃다. 초기 센서 표시와 충분히 기다린 표시를 비교하는 미션을 둔다.
 
-입자는 양쪽 각 48개, 크기·색·개수를 유지하며 컵 벽을 넘지 않는다. 원판 충돌은 같은 질량의 탄성 충돌을 쓰고 운동 크기는 계산된 절대온도의 제곱근에 맞춘다. 물의 분자 구조·상호 작용 전체를 재현하는 엔진은 아니며 온도와 움직임을 연결하는 설명 층임을 밝힌다. 간격은 주어진 물 밀도표에 따라 용기 창의 너비만 바꾸어 나타내고, 입자는 생성·소멸하지 않는다. 기본은 실제 부피 비율이며 간격 차이 강조는 추가하지 않는다. 평균 움직임 비교 막대로 작은 실제 비율 차이를 읽게 한다. 찬물에서도 계속 움직이며 온도 변화 재생을 멈춰도 입자 설명 움직임은 계속된다.
+입자는 양쪽 각 48개, 크기·개수를 유지하며 색은 평균 온도에 연결하고 컵 벽을 넘지 않는다. 원판 충돌은 같은 질량의 탄성 충돌을 쓰고 운동 크기는 계산된 절대온도의 제곱근에 맞춘다. 물의 분자 구조·상호 작용 전체를 재현하는 엔진은 아니며 온도와 움직임을 연결하는 설명 층임을 밝힌다. 간격은 주어진 물 밀도표에 따라 용기 창의 너비만 바꾸어 나타내고, 입자는 생성·소멸하지 않는다. 기본은 실제 부피 비율이며 간격 차이 강조는 추가하지 않는다. 평균 움직임 비교 막대로 작은 실제 비율 차이를 읽게 한다. 찬물에서도 계속 움직이며 온도 변화 재생을 멈춰도 입자 설명 움직임은 계속된다.
 
 학습 모드에서는 1분마다 자동으로 멈춰 측정하게 한다. 기록은 초기 조건·시간·센서 온도를 담고 ±0.2 ℃ 흔들림을 반올림한다. 모형값과 센서 응답을 분리하여 표시한다. 미션은 온도 탐색, 60/5 ℃ 10분 관찰, 평형 가까이에서 입자 예상, 안팎 바꾸기, 시간에 따른 온도 변인 설계, 접촉식 센서 기다리기, 열 이동 정리다. 확인 문제 3개를 둔다.
 
